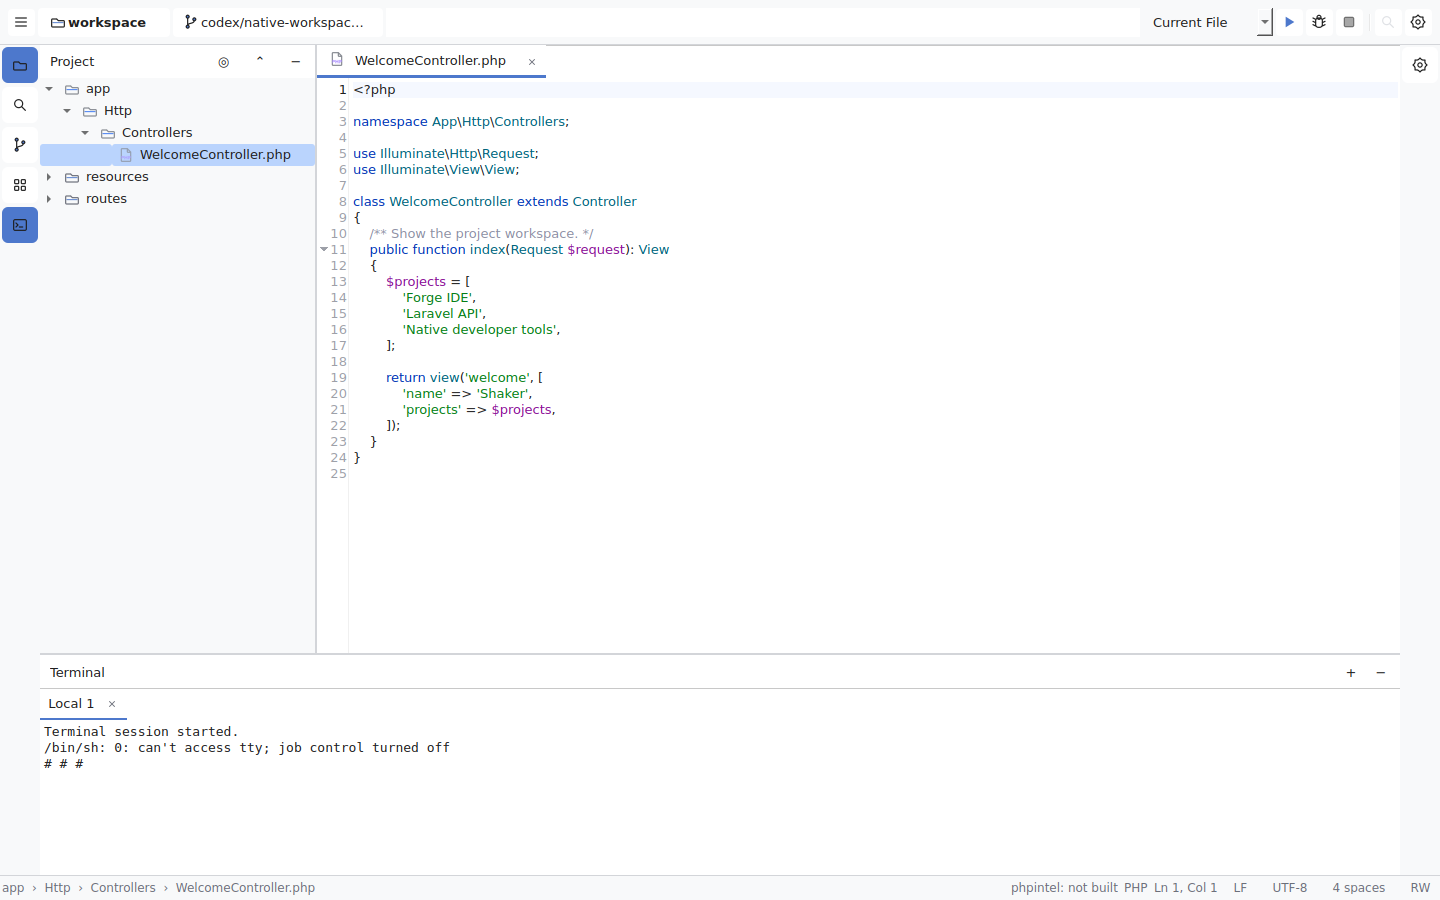
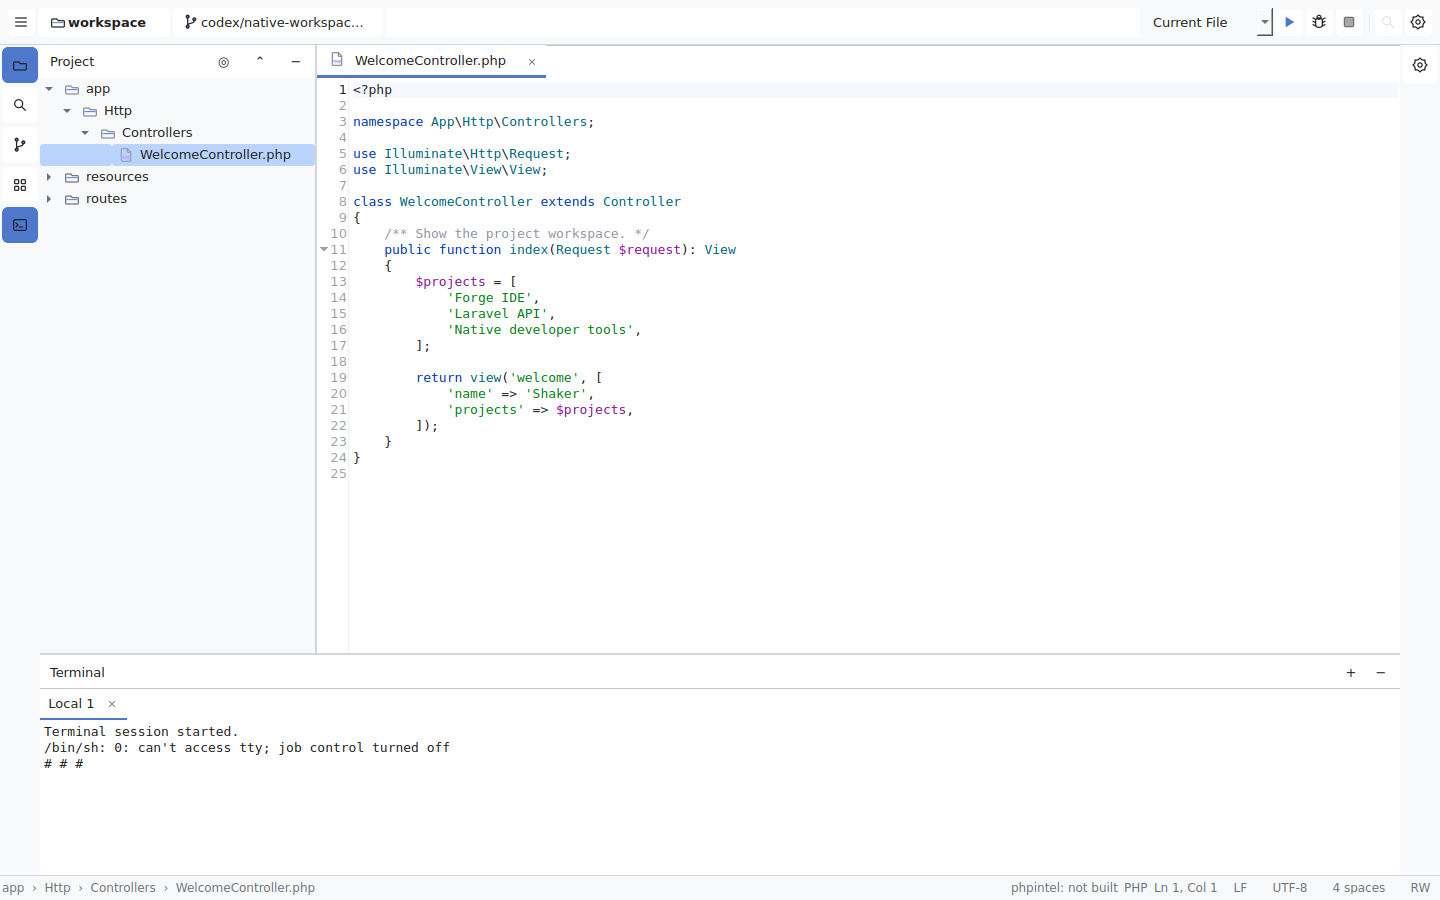
fix: fetch missing vcpkg history and preserve editor monospace font

diff --git a/app/MainWindowAppearance.cpp b/app/MainWindowAppearance.cpp
@@ -1,4 +1,5 @@
 #include <QCheckBox>
+#include <QFontDatabase>
 #include <QPalette>
 #include <QSpinBox>
 #include <QTreeWidget>
@@ -47,7 +48,8 @@ void MainWindow::applyTheme(const QString& name) {
     const int iconSize = metrics.value(QStringLiteral("iconSize")).toInt(16);
     const QString style =
         QStringLiteral(
-            "QWidget { background: %1; color: %2; font-family: \"%3\"; font-size: %4pt; }"
+            "QWidget { background: %1; color: %2; }"
+            "QMainWindow, QDialog { font-family: \"%3\"; font-size: %4pt; }"
             "QMenuBar, QToolBar, QDockWidget::title { background: %5; }"
             "QMenuBar::item { padding: 4px 6px; }"
             "QToolBar { spacing: 3px; padding: 2px; border: 0; }"
@@ -83,6 +85,7 @@ void MainWindow::applyTheme(const QString& name) {
             .arg(elevated, selection, border, panel, selection, accent,
                  themedColor(ui, QStringLiteral("statusBar"), elevated),
                  themedColor(ui, QStringLiteral("statusBarForeground"), muted));
+    qApp->setFont(QFont(fontFamily, fontSize));
     qApp->setStyleSheet(style);
     for (QPlainTextEdit* editor : findChildren<QPlainTextEdit*>()) {
         if (editor->property("forgeSourceEditor").toBool()) {
@@ -270,11 +273,14 @@ void MainWindow::applyEditorTheme(QPlainTextEdit* editor) {
     editor->setLineWrapMode(forge::core::Settings::instance()->value("editor.wrap", false).toBool()
                                 ? QPlainTextEdit::WidgetWidth
                                 : QPlainTextEdit::NoWrap);
-    const QFont font(
-        metrics.value(QStringLiteral("fontFamily")).toString(QStringLiteral("Consolas")),
-        forge::core::Settings::instance()
-            ->value("editor.fontSize", metrics.value(QStringLiteral("fontSize")).toInt(10))
-            .toInt());
+    QFont font(metrics.value(QStringLiteral("fontFamily")).toString(QStringLiteral("Consolas")),
+               forge::core::Settings::instance()
+                   ->value("editor.fontSize", metrics.value(QStringLiteral("fontSize")).toInt(10))
+                   .toInt());
+    if (!QFontDatabase::families().contains(font.family()))
+        font.setFamily(QFontDatabase::systemFont(QFontDatabase::FixedFont).family());
+    font.setStyleHint(QFont::Monospace);
+    font.setFixedPitch(true);
     if (auto* codeEditor = dynamic_cast<ForgeCodeEditor*>(editor)) {
         codeEditor->setThemeFont(font);
     } else {

diff --git a/tests/unit/test_workspace.cpp b/tests/unit/test_workspace.cpp
@@ -4,6 +4,7 @@
 #include <QCryptographicHash>
 #include <QDockWidget>
 #include <QFile>
+#include <QFontInfo>
 #include <QLineEdit>
 #include <QMessageBox>
 #include <QPlainTextEdit>
@@ -57,6 +58,7 @@ TEST(Workspace, OpensArabicPathPreservesCrLfAndSavesUsingKeyboardShortcut) {
     auto* editor = workspace.window.findChild<QTabWidget*>("EditorTabs")->currentWidget();
     auto* text = qobject_cast<QPlainTextEdit*>(editor);
     ASSERT_NE(text, nullptr);
+    EXPECT_TRUE(QFontInfo(text->font()).fixedPitch());
     text->setFocus();
     text->moveCursor(QTextCursor::End);
     text->insertPlainText("// appended");

diff --git a/docs/WINDOWS.md b/docs/WINDOWS.md
@@ -11,7 +11,7 @@ git switch codex/native-workspace-redesign
 powershell -File .\tools\build-local.ps1 -QtRoot 'C:\Qt\6.8.3\msvc2022_64' -Run
 ```
 
-Use your actual Qt directory. The script can also discover an existing Qt 6.8 installation under `C:\Qt`, or use `QT_ROOT_DIR` / `Qt6_DIR` in the current shell. Visual Studio Community, Professional, Enterprise and Build Tools are discovered using `vswhere`; the script does not assume a Build Tools-only path.
+Use your actual Qt directory. The script can also discover an existing Qt 6.8 installation under `C:\Qt`, or use `QT_ROOT_DIR` / `QT_ROOT` / `Qt6_DIR` in the current shell. Visual Studio Community, Professional, Enterprise and Build Tools are discovered using `vswhere`; the script does not assume a Build Tools-only path.
 
 The script configures the existing preset, builds the C++ app and Rust services, runs CTest and Cargo tests, copies Qt runtime DLLs/plugins with the existing `windeployqt`, and optionally launches the application. The Rust `phpintel` executable is copied beside the app by CMake. It does not install or upgrade system tools. Errors stop the script before launch.
 
@@ -20,7 +20,7 @@ The script configures the existing preset, builds the C++ app and Rust services,
 powershell -File .\tools\build-local.ps1 -QtRoot 'C:\Qt\6.8.3\msvc2022_64' -Configuration Release -Package
 ```
 
-The build needs the existing Qt/MSVC/Rust/Ninja tools, Git, and vcpkg. `zlib` is the only added native package; vcpkg resolves it through the existing pinned baseline. CMake's default Rust integration remains enabled. First-time dependency resolution requires internet access; subsequent cached builds can be offline.
+The build needs the existing Qt/MSVC/Rust/Ninja tools, Git, and vcpkg. `zlib` is the only added native package; vcpkg resolves it through the existing pinned baseline. If the installed vcpkg checkout lacks that commit, the script fetches official registry history without checking out, resetting or cleaning the installed toolchain. CMake's default Rust integration remains enabled. First-time dependency resolution requires internet access; subsequent cached builds can be offline.
 
 The GitHub Actions **ForgeIDE-windows-x64** artifact contains the app, Qt runtime, service executable and notices after a successful Windows build. This is a portable development build, not an MSI installer or a claim that the full language engine is complete.
 

diff --git a/PROGRESS.md b/PROGRESS.md
@@ -19,6 +19,8 @@
 - Added file watching and external-overwrite confirmation, atomic settings writes, UTF-8 terminal I/O configuration, and a shutdown lifecycle fix found with AddressSanitizer.
 - Split the former 3,000-line MainWindow file into focused implementation files and reusable widgets. Fixed resource embedding (AUTORCC), which previously prevented the app from loading bundled themes/keymaps.
 - Preserved Windows presets and added `tools/build-local.ps1` with vswhere-based MSVC discovery, CTest/Cargo checks, Qt deployment and portable packaging.
+- Hosted verification fixed the previous MSVC setup failure. Rust checks passed; Windows C++ formatting passed after enforcing source LF endings. The next run exposed missing pinned vcpkg registry history in the runner checkout; the build now fetches that official commit when absent without changing the installed checkout. Final Windows build/test remains pending.
+- Fixed editor font inheritance so UI styling cannot replace its monospace font; added a fixed-pitch UI regression assertion.
 - Local verification: the C++ workspace builds on Linux Qt 6.4.2 using the explicit UI-only compatibility switches; 27/27 tests passed, including real deflated VSIX import and the startup screenshot test; the suite also passed in an AddressSanitizer build (leak detection disabled for external Qt libraries). Final results are recorded in `docs/WORKSPACE_REDESIGN.md`. Production defaults remain Qt 6.8 / Rust 1.99.1 / MSVC on Windows; new hosted CI is tracked separately.
 - Remaining gaps: Qt built-in docking rather than ADS/auto-hide, one additional editor split rather than arbitrary pane trees, limited declarative extension compatibility, redirected terminal rather than ConPTY, and the existing PHP/Laravel/Git/debugger/database/AI roadmap. No semantic analysis or benchmark budgets are claimed complete.
 

diff --git a/docs/DECISIONS.md b/docs/DECISIONS.md
@@ -15,6 +15,7 @@ Format: `YYYY-MM-DD | Decision | Reason`
 | 2026-10-21 | tree-sitter-php v0.25.1 | Latest stable PHP grammar for tree-sitter |
 | 2026-10-21 | vcpkg manifest mode | Reproducible, version-locked C++ dependencies per-project |
 | 2026-10-22 | vcpkg builtin baseline `67972e92edd181d433927b42d8ab4bfa52ac164a` | Pin manifest dependency resolution to an official vcpkg repository revision; the bundled vcpkg binary version hash is not a registry commit |
+| 2026-10-23 | Fetch missing pinned vcpkg history before configuration | Hosted Windows checkout lacked the baseline object. Verify `versions/baseline.json`, fetch the exact commit from the official registry only when absent; do not reset or replace the user's installed checkout. |
 | 2026-10-21 | nlohmann/json via vcpkg | Header-only, MIT license, used for settings/theme JSON in C++ |
 | 2026-10-21 | spdlog via vcpkg | Fast, MIT-licensed C++ logging; integrates with Qt logging categories |
 | 2026-10-21 | JetBrains Mono as default editor font | SIL OFL licensed; best-in-class coding legibility; official open alternative |
